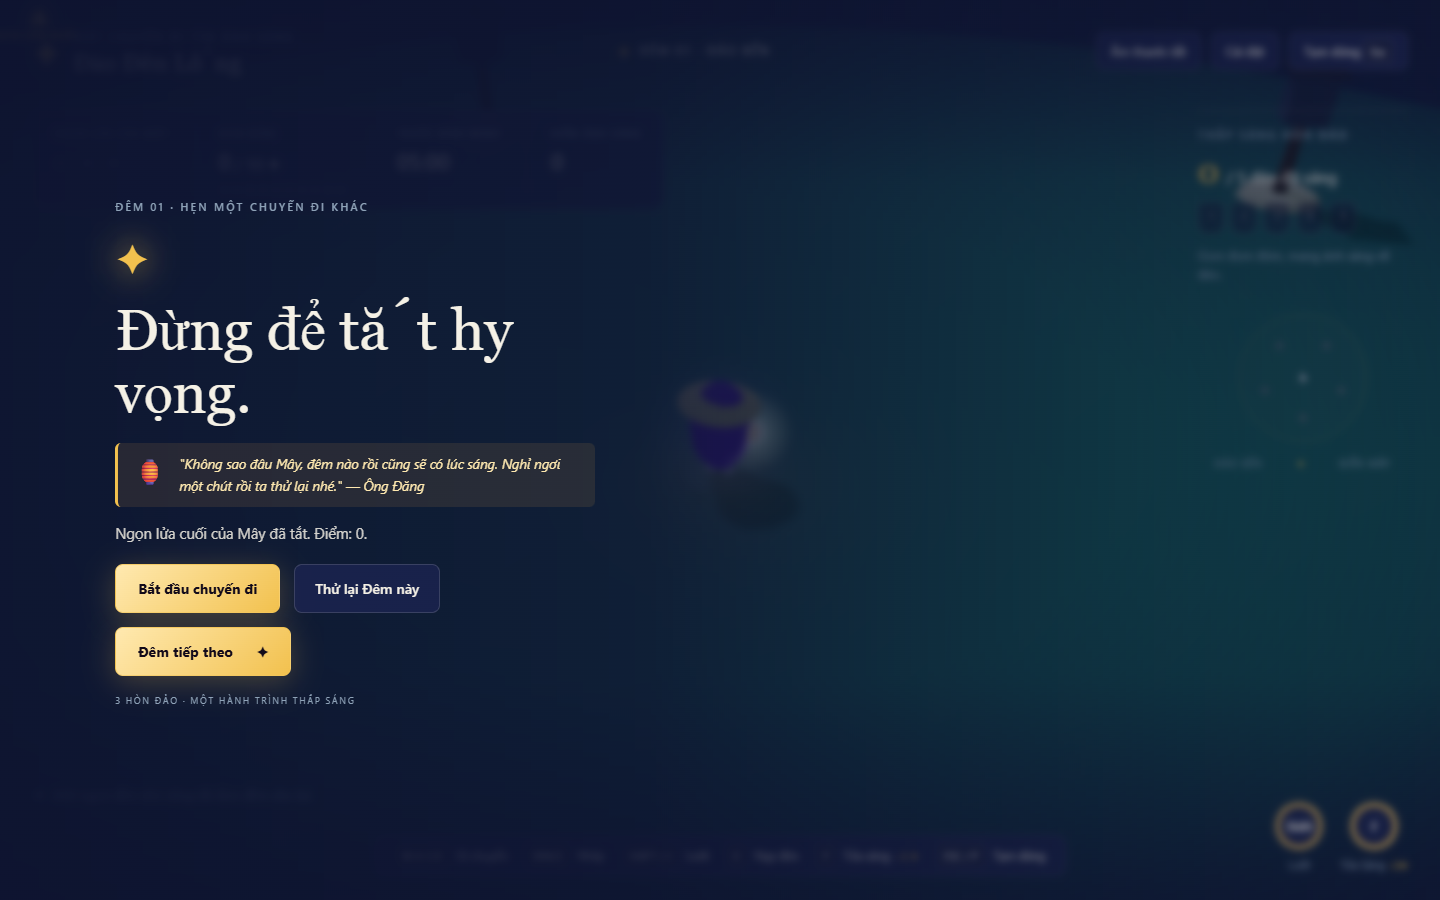
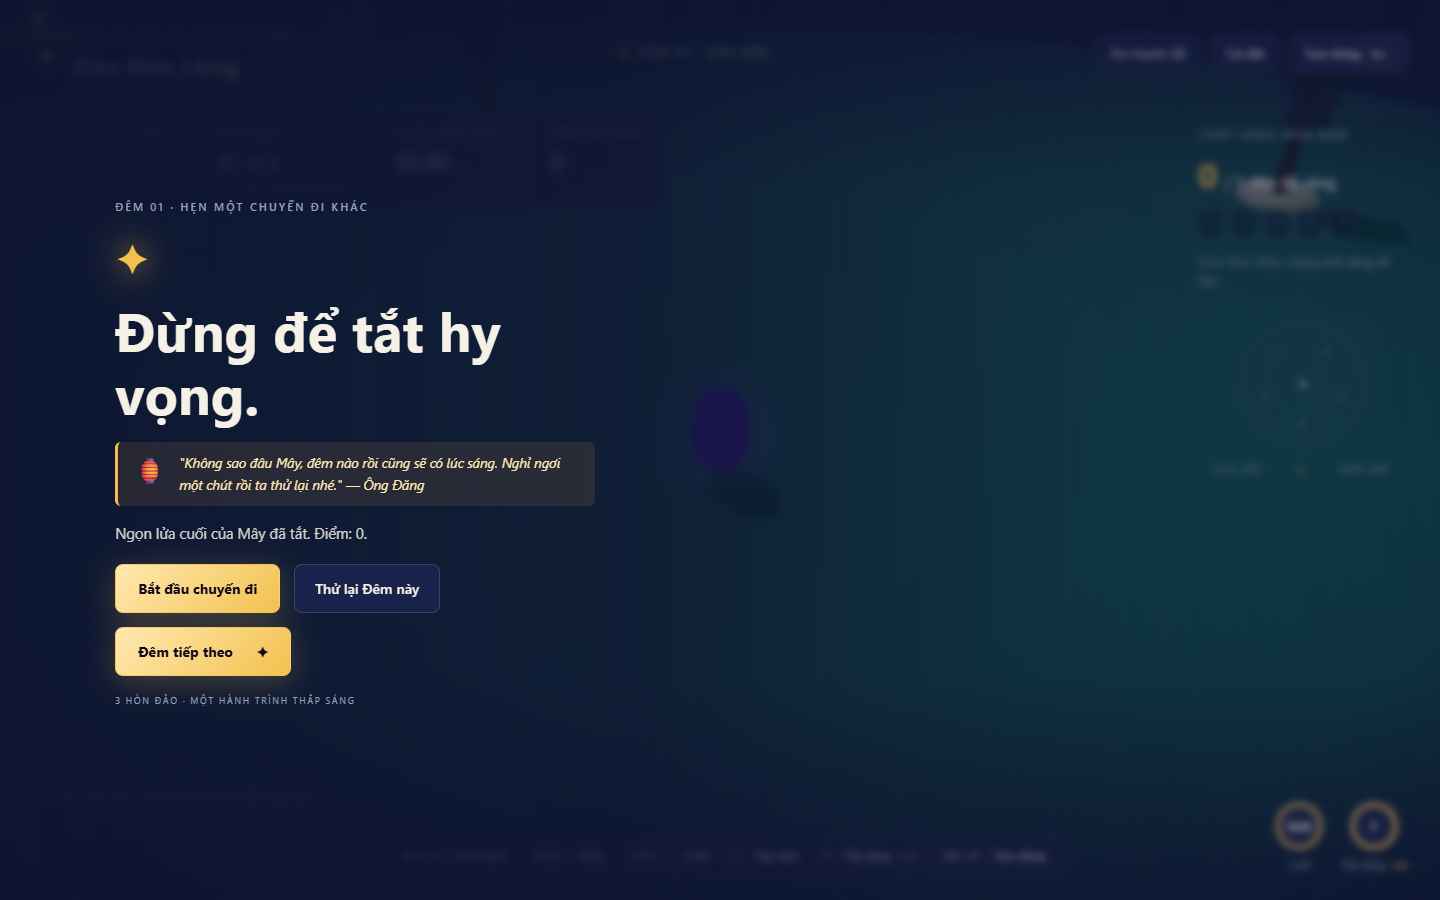
fix(ui): use Segoe UI font stack to fix Vietnamese diacritics rendering

Changed region(s): [[0.0625, 0.3422, 0.375, 0.56], [0.4688, 0.4356, 0.5625, 0.5289], [0.8125, 0.1867, 0.8438, 0.2178]]

diff --git a/style.css b/style.css
@@ -21,7 +21,7 @@
   --danger: #FF5A5F;
   --ui-text: #F5F1E6;
   --line: rgba(245, 241, 230, 0.15);
-  font-family: Inter, "Segoe UI", Arial, sans-serif;
+  font-family: "Segoe UI", Inter, -apple-system, BlinkMacSystemFont, Roboto, Arial, sans-serif;
   font-size: 16px;
 }
 
@@ -66,7 +66,7 @@ button:focus-visible { outline: 2px solid var(--gold); outline-offset: 4px; }
 .brand { display: flex; gap: 12px; align-items: center; }
 .brand-icon { color: var(--gold); font-size: 36px; filter: drop-shadow(0 0 10px #f2c14e66); }
 .eyebrow { font-size: 0.68rem; letter-spacing: 0.2em; color: var(--drifter); font-weight: 600; text-transform: uppercase; }
-h1 { font-family: Georgia, "Times New Roman", serif; font-size: 1.5rem; letter-spacing: 0.02em; font-weight: 400; margin: 4px 0 0; color: var(--ui-text); }
+h1 { font-family: "Segoe UI", -apple-system, BlinkMacSystemFont, Roboto, sans-serif; font-size: 1.5rem; letter-spacing: 0.02em; font-weight: 700; margin: 4px 0 0; color: var(--ui-text); }
 
 .night-label { font-size: 0.72rem; letter-spacing: 0.18em; color: var(--ui-text); }
 .live-dot {
@@ -198,7 +198,7 @@ kbd {
   padding-top: 16px;
 }
 .quest-line { display: flex; gap: 8px; align-items: baseline; margin-top: 10px; }
-.quest-line > span:first-child { font-family: Georgia, serif; font-size: 2.1rem; color: var(--gold); }
+.quest-line > span:first-child { font-family: "Segoe UI", Roboto, sans-serif; font-weight: 700; font-size: 2.1rem; color: var(--gold); }
 .lamp-progress { display: flex; gap: 7px; margin-top: 12px; flex-wrap: wrap; }
 .lamp-progress span {
   width: 26px;
@@ -228,7 +228,7 @@ kbd {
   position: absolute;
   bottom: 96px;
   left: 32px;
-  font-family: Georgia, serif;
+  font-family: "Segoe UI", Roboto, sans-serif;
   font-size: 0.85rem;
   color: var(--drifter);
   font-style: italic;
@@ -285,7 +285,10 @@ kbd {
 .story-card { max-width: 480px; }
 .story-symbol { color: var(--gold); font-size: 42px; margin: 14px 0 8px; filter: drop-shadow(0 0 16px var(--gold)); }
 h2 {
-  font: 400 clamp(2.3rem, 4vw, 3.8rem) / 1.1 Georgia, "Times New Roman", serif;
+  font-family: "Segoe UI", -apple-system, BlinkMacSystemFont, Roboto, "Helvetica Neue", Arial, sans-serif;
+  font-size: clamp(2.2rem, 3.8vw, 3.4rem);
+  font-weight: 700;
+  line-height: 1.15;
   color: var(--ui-text);
   margin: 14px 0 18px;
 }
@@ -395,7 +398,7 @@ h2 {
   padding: 28px;
   box-shadow: 0 10px 40px rgba(0, 0, 0, 0.6);
 }
-.modal-card h3 { margin-top: 0; font-family: Georgia, serif; color: var(--gold); }
+.modal-card h3 { margin-top: 0; font-family: "Segoe UI", Roboto, sans-serif; font-weight: 700; color: var(--gold); }
 .setting-row { margin: 20px 0; display: flex; flex-direction: column; gap: 8px; }
 .setting-row label { font-size: 0.8rem; color: var(--drifter); }
 .setting-row input[type="range"] { accent-color: var(--gold); cursor: pointer; }
